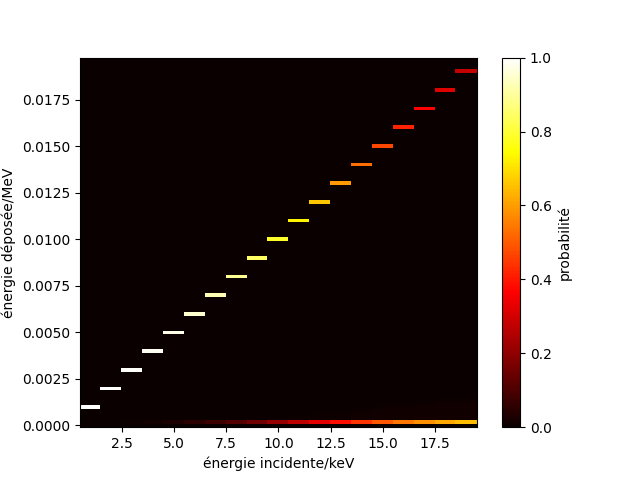
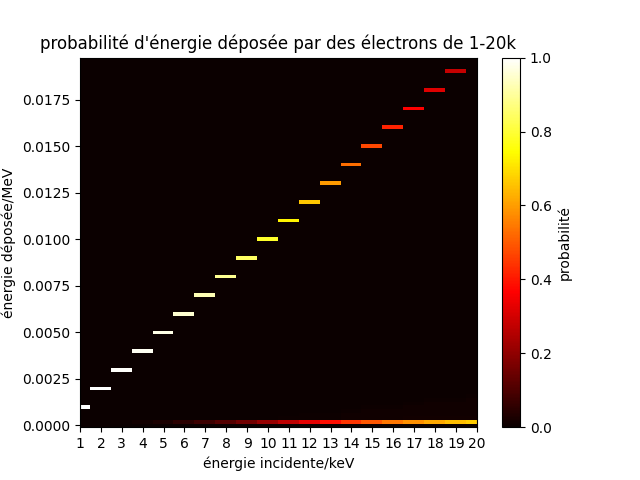
fonction echantilloner l'energie deposee par gamma

diff --git a/MCTDCRcode/TDCR_model_lib.py b/MCTDCRcode/TDCR_model_lib.py
@@ -430,33 +430,65 @@ plt.savefig("quenching E_test 10-10k.png")
 #============================================================================================
 
 #========================= énergie gamma ===================================================
-def energie_dep_gamma(e_inci):
+#'''
+f1 = open('MCNP-MATRIX/matrice/matrice_p_1_200k.txt')
+#f2 = open('MCNP-MATRIX/matrice/matrice_p_200_2000k.txt')
+#f3 = open('MCNP-MATRIX/matrice/matrice_p_2000_10000k.txt')
+data1 = f1.readlines()
+#data2 = f2.readlines()
+#data3 = f3.readlines()
+matrice1 = np.zeros((1002,200))
+#matrice2 = np.zeros((1002,901))
+#matrice3 = np.zeros((1002,801))
+for i in range(1002):
+    data1[i] = data1[i].split()
+    #data2[i] = data2[i].split()
+    #data3[i] = data3[i].split()
+    for j in range(200):
+        matrice1[i][j] = float(data1[i][j])
+    #for k in range(901):
+        #matrice2[i][k] = float(data2[i][k])
+    #for l in range(801):
+        #matrice3[i][l] = float(data3[i][l])
+#'''
+
+def energie_dep_gamma(e_inci,matrice1):
     if e_inci <= 200:
         index = int(e_inci)            # index de colonne de la matrice de l'énergie incidente la plus proche 
-        f = open('MCNP-MATRIX/matrice_p_1_200k.txt')
+        #doc = 'MCNP-MATRIX/matrice/matrice_p_1_200k.txt'
+        matrice = matrice1
         taille_x = 200
     
     elif e_inci <= 2000:
         index = int(e_inci)-200
-        f = open('MCNP-MATRIX/matrice_p_200_2000k.txt')
+        #doc = 'MCNP-MATRIX/matrice/matrice_p_200_2000k.txt'
+        #matrice = matrice2
         taille_x = 901
 
     else:
         index = (int(e_inci)-2000)%10
-        f = open('MCNP-MATRIX/matrice_p_2000_10000k.txt')
+        #doc = 'MCNP-MATRIX/matrice/matrice_p_2000_10000k.txt'
+        #matrice = matrice3
         taille_x = 801
-
-    data = f.readlines()
     
-    matrice = np.zeros((1002,taille_x))
+    '''
+    with open(doc) as f:
+        data = f.readlines()
+    
+        matrice = np.zeros((1002,taille_x))
 
-    for i in range(np.size(data)):
-        data[i] = data[i].split()
-        for j in range(taille_x):
-            matrice[i][j] = float(data[i][j])
-
+        for i in range(1002):
+            data[i] = data[i].split()
+            for j in range(taille_x):
+                matrice[i][j] = float(data[i][j])
+    '''
     result = sampling(matrice[1:,index])
 
     return result
+#'''
+r = []   
+for i in range(100):
+    r.append(energie_dep_gamma(61,matrice1))
+print(r)
+#'''
 
-    

diff --git a/MCTDCRcode/MCNP-MATRIX/matrice.py b/MCTDCRcode/MCNP-MATRIX/matrice.py
@@ -3,7 +3,7 @@
 import numpy as np
 import matplotlib.pyplot as plt
 #import matplotlib.colors as mcolors
-import matplotlib.axes as ma
+from matplotlib.pyplot import MultipleLocator
 
 
 start_energy = 0         # keV --- debut de enrgie incidente
@@ -120,23 +120,23 @@ def matrice_fig(matrice_p,start,end,e):
         d_end = int(end/201*1000)
         i_st = int(start-1)
         i_end = int(end-1)
-        x = i_end - i_st
+        x = i_end - i_st +1
 
     elif end <= 2000:    # delta_Ei = 1
         delta_Ei = 1
         d_end = int(end/2001*1000)
         i_st = int(start-200)
         i_end = int(end-200)
-        x = i_end - i_st
+        x = i_end - i_st + 1
 
     else:               # 
         delta_Ei = 10
         d_end = int(end/(1e4+1)*1000)
         i_st = int((start-2000)/10)
         i_end = int((end-2000)/10)
-        x = i_end - i_st
+        x = i_end - i_st +1
 
-    zz = matrice_p[1:d_end+1,i_st:i_end]  # matrice 
+    zz = matrice_p[1:d_end+1,i_st:i_end+1]  # matrice 
     xx = np.ones((d_end,x))
     yy = np.ones((d_end,x))
     
@@ -144,15 +144,23 @@ def matrice_fig(matrice_p,start,end,e):
         xx[:,i] = i * delta_Ei + start
         yy[:,i] = e[0:d_end]
     
-    h = plt.pcolor(xx,yy,zz,cmap = plt.cm.hot,vmin=0,vmax=0.1)
+    h = plt.pcolor(xx,yy,zz,cmap = plt.cm.hot,vmin=0)
     cb = plt.colorbar(h)
     cb.set_label("probabilité")
+    #plt.xticks(xs,s)
     #plt.yticks(np.linspace(0,end,10))
+    x_maj = MultipleLocator(1)
+    ax = plt.gca()
+    ax.xaxis.set_major_locator(x_maj)
+    #plt.ylim(0,e[d_end])
+    plt.xlim(start,end)
     plt.xlabel("énergie incidente/keV")
     plt.ylabel("énergie déposée/MeV")
+    title = "probabilité d'énergie déposée par des électrons de " + str(start) + "-" + str(end) + "k"
+    plt.title(title)
     name = "matrice/matricep_" + str(start) + "_" + str(end) + "k.png"
     plt.savefig(name)
-
+    return xx[0,:]
 #'''
 
 
@@ -194,11 +202,12 @@ def ecrit_matrice(matrice,niveau):
             file.write('\n')
         '''
 
-#e,matrice_p = creat_matrice(0)
+e,matrice_p = creat_matrice(0)
 #print(np.size(matrice_p))
-#ecri = ecrit_matrice(matrice_p,0) 
+ecri = ecrit_matrice(matrice_p,0) 
 #fig1 = matrice_fig(matrice_p,41,80,e)
-#fig2 = matrice_fig(matrice_p,1,20,e)
+fig2 = matrice_fig(matrice_p,1,20,e)
+print(fig2)
 '''
 name = 'matrice/matrice_' + str(start_energy) + '_' + str(end_energy) + 'k.txt'
 with open(name,'w') as file:
